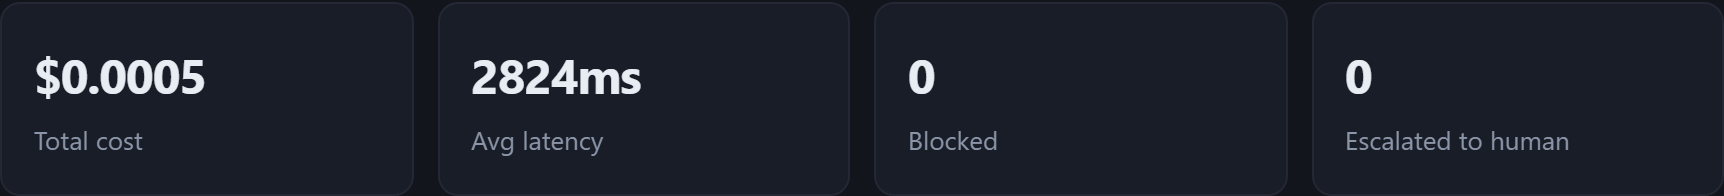
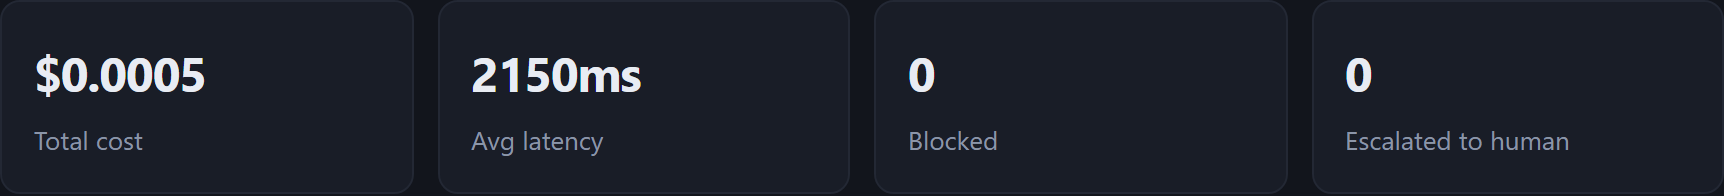
docs: fix demo clip trailing fade, add configurable capture base URL

diff --git a/scripts/capture_screenshots.py b/scripts/capture_screenshots.py
@@ -25,6 +25,7 @@ automatable — it requires an interactive LangSmith session; see
 
 import json
 import os
+import re
 import shutil
 import subprocess
 import sys
@@ -34,7 +35,7 @@ from pathlib import Path
 
 from playwright.sync_api import sync_playwright
 
-BASE_URL = "http://127.0.0.1:8000"
+BASE_URL = os.environ.get("CAPTURE_BASE_URL", "http://127.0.0.1:8000")
 ROOT = Path(__file__).resolve().parent.parent
 SHOTS_DIR = ROOT / "docs" / "screenshots"
 SCORECARD_JSON = ROOT / "evaluation" / "results" / "ragas_scorecard.json"
@@ -211,6 +212,18 @@ def maybe_make_gif(trim_seconds: float = 0.0) -> None:
         return
     # Output-side -ss seeks accurately (input seek snaps to sparse keyframes).
     trim = max(0.0, trim_seconds - 0.4)
+    # The recording's last frame captures the browser context tearing down
+    # (a faded/half-rendered window) — drop the tail of the clip.
+    probe = subprocess.run(
+        [ffmpeg, "-i", str(webm)], capture_output=True, text=True
+    )
+    match = re.search(r"Duration: (\d+):(\d+):([\d.]+)", probe.stderr)
+    duration = (
+        int(match.group(1)) * 3600 + int(match.group(2)) * 60 + float(match.group(3))
+        if match
+        else 0.0
+    )
+    keep = max(0.0, duration - trim - 0.6)
     subprocess.run(
         [
             ffmpeg,
@@ -219,6 +232,8 @@ def maybe_make_gif(trim_seconds: float = 0.0) -> None:
             str(webm),
             "-ss",
             f"{trim:.2f}",
+            "-t",
+            f"{keep:.2f}",
             "-vf",
             "fps=10,scale=880:-1:flags=lanczos",
             str(gif),
